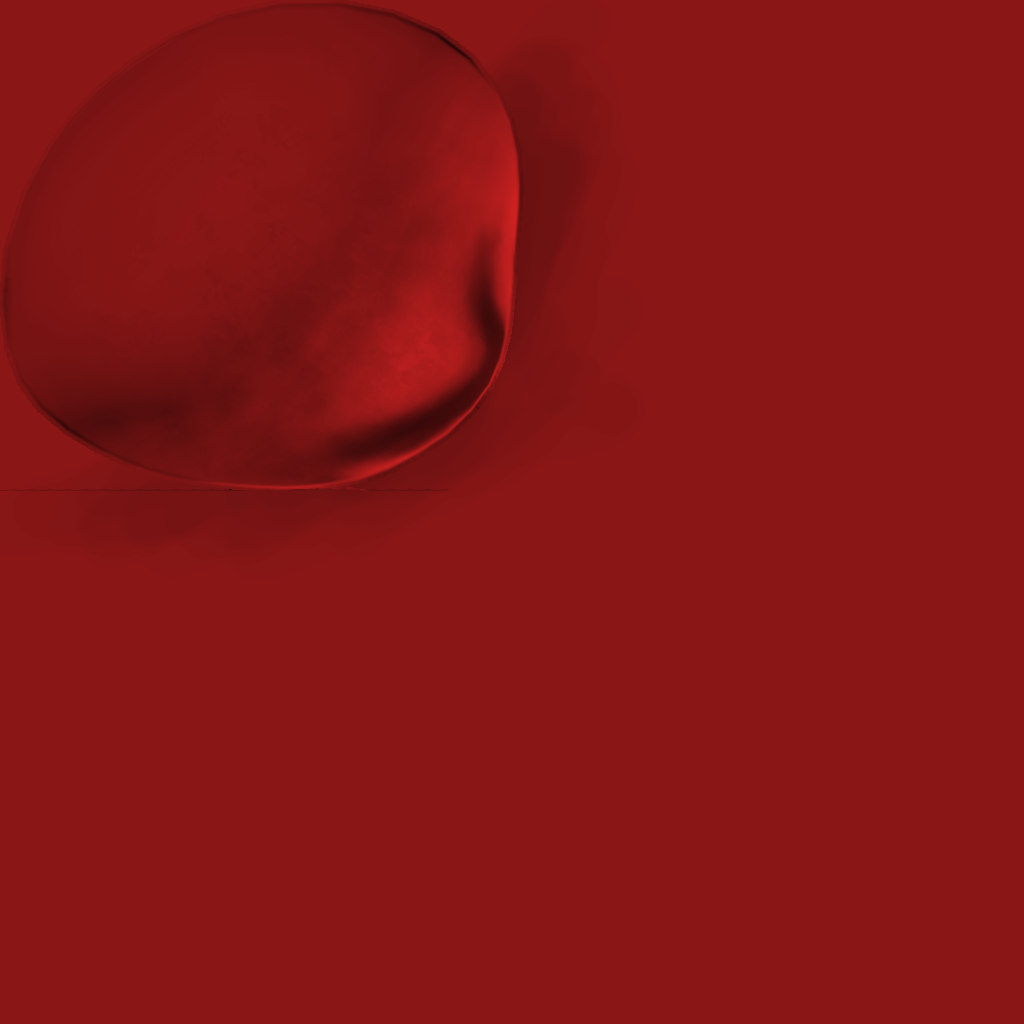
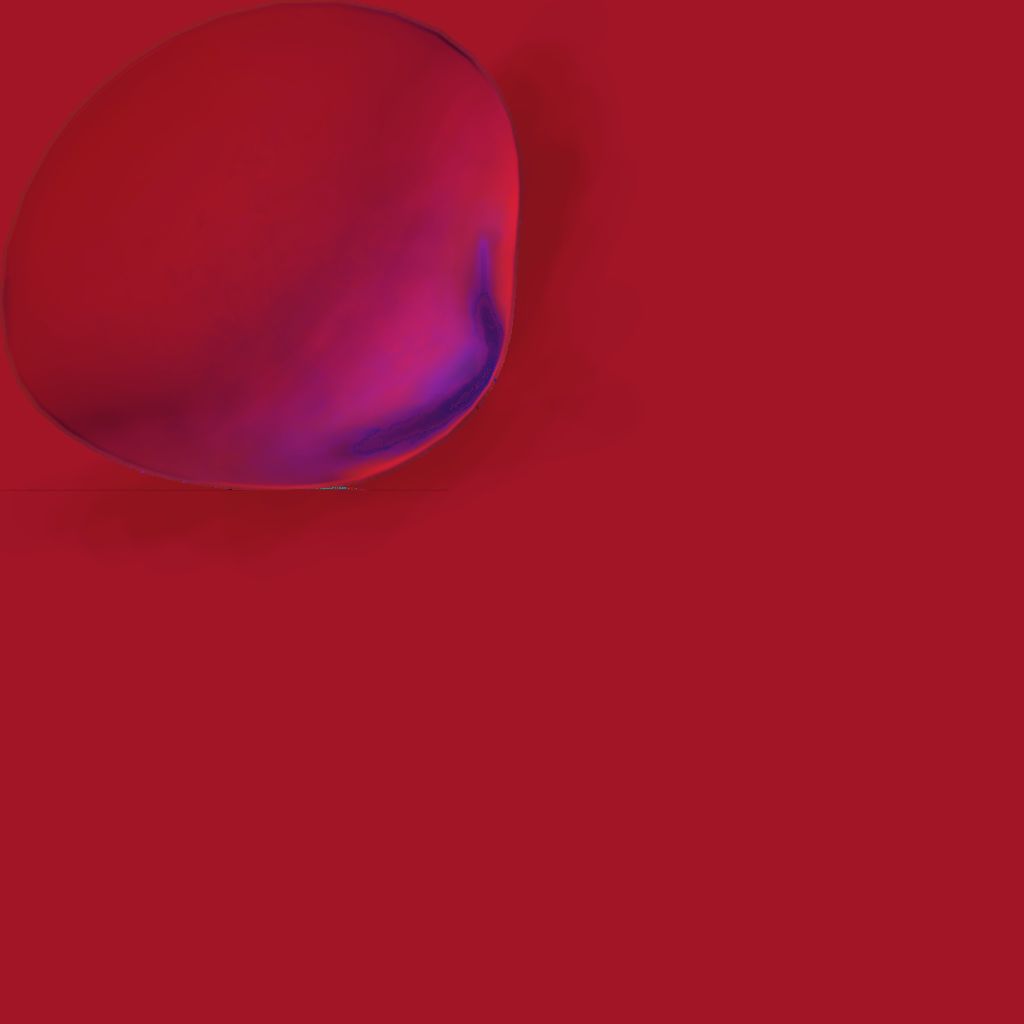
minor tweaks to common clam model + presale UI

Changed region(s): [[0.0, 0.0, 0.5938, 0.5312]]

diff --git a/src/components/Web3Navbar.js b/src/components/Web3Navbar.js
@@ -18,6 +18,9 @@ import getWeb3 from "../web3/getWeb3";
 
 import Web3Avatar from "./Web3Avatar";
 
+import { FontAwesomeIcon } from "@fortawesome/react-fontawesome";
+import { faSignInAlt} from "@fortawesome/free-solid-svg-icons";
+
 const ErrorAlert = ({ title, description }) => (
   <div className="w-full absolute">
     <div
@@ -181,7 +184,7 @@ const Web3Navbar = ({ updateAccount, ...redux }) => {
                 </div>
                 { Number(activateClamBalance) > 0 && <div className="flex lg:mt-0 px-4 py-2 mr-2 rounded-xl shadow bg-gray-600 bg-opacity-80">
                   <span className="p-1 text-sm text-gray-200 font-bold font-sans">
-                    <Link to="/saferoom">My Clams</Link>
+                    <Link to="/saferoom">SAFEROOM <FontAwesomeIcon icon={faSignInAlt} /></Link>
                   </span>
                 </div>}
 
